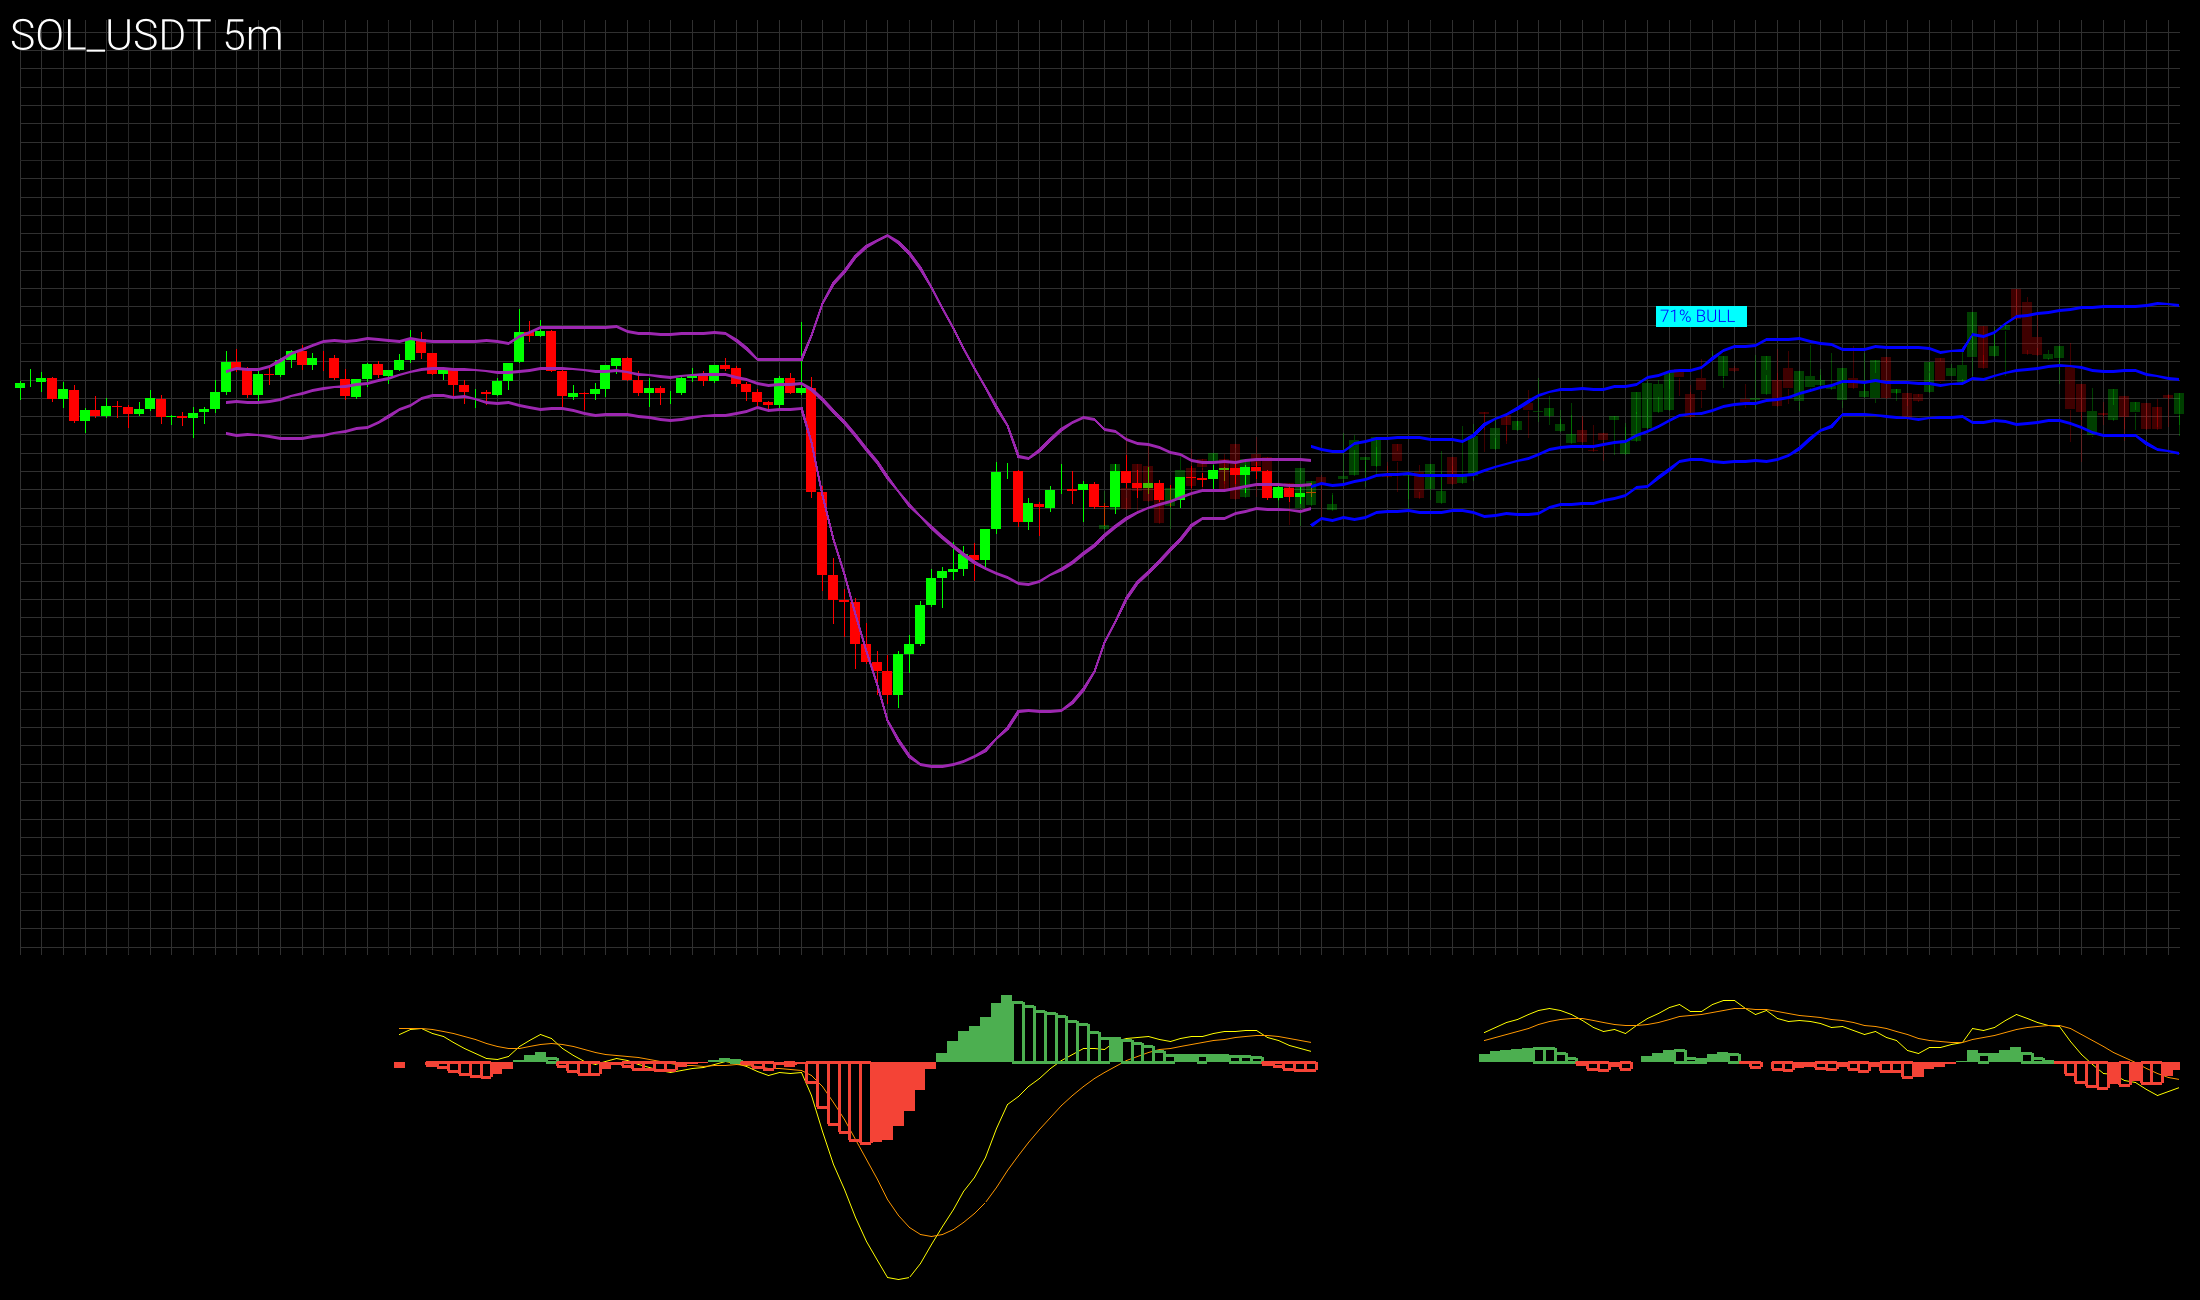
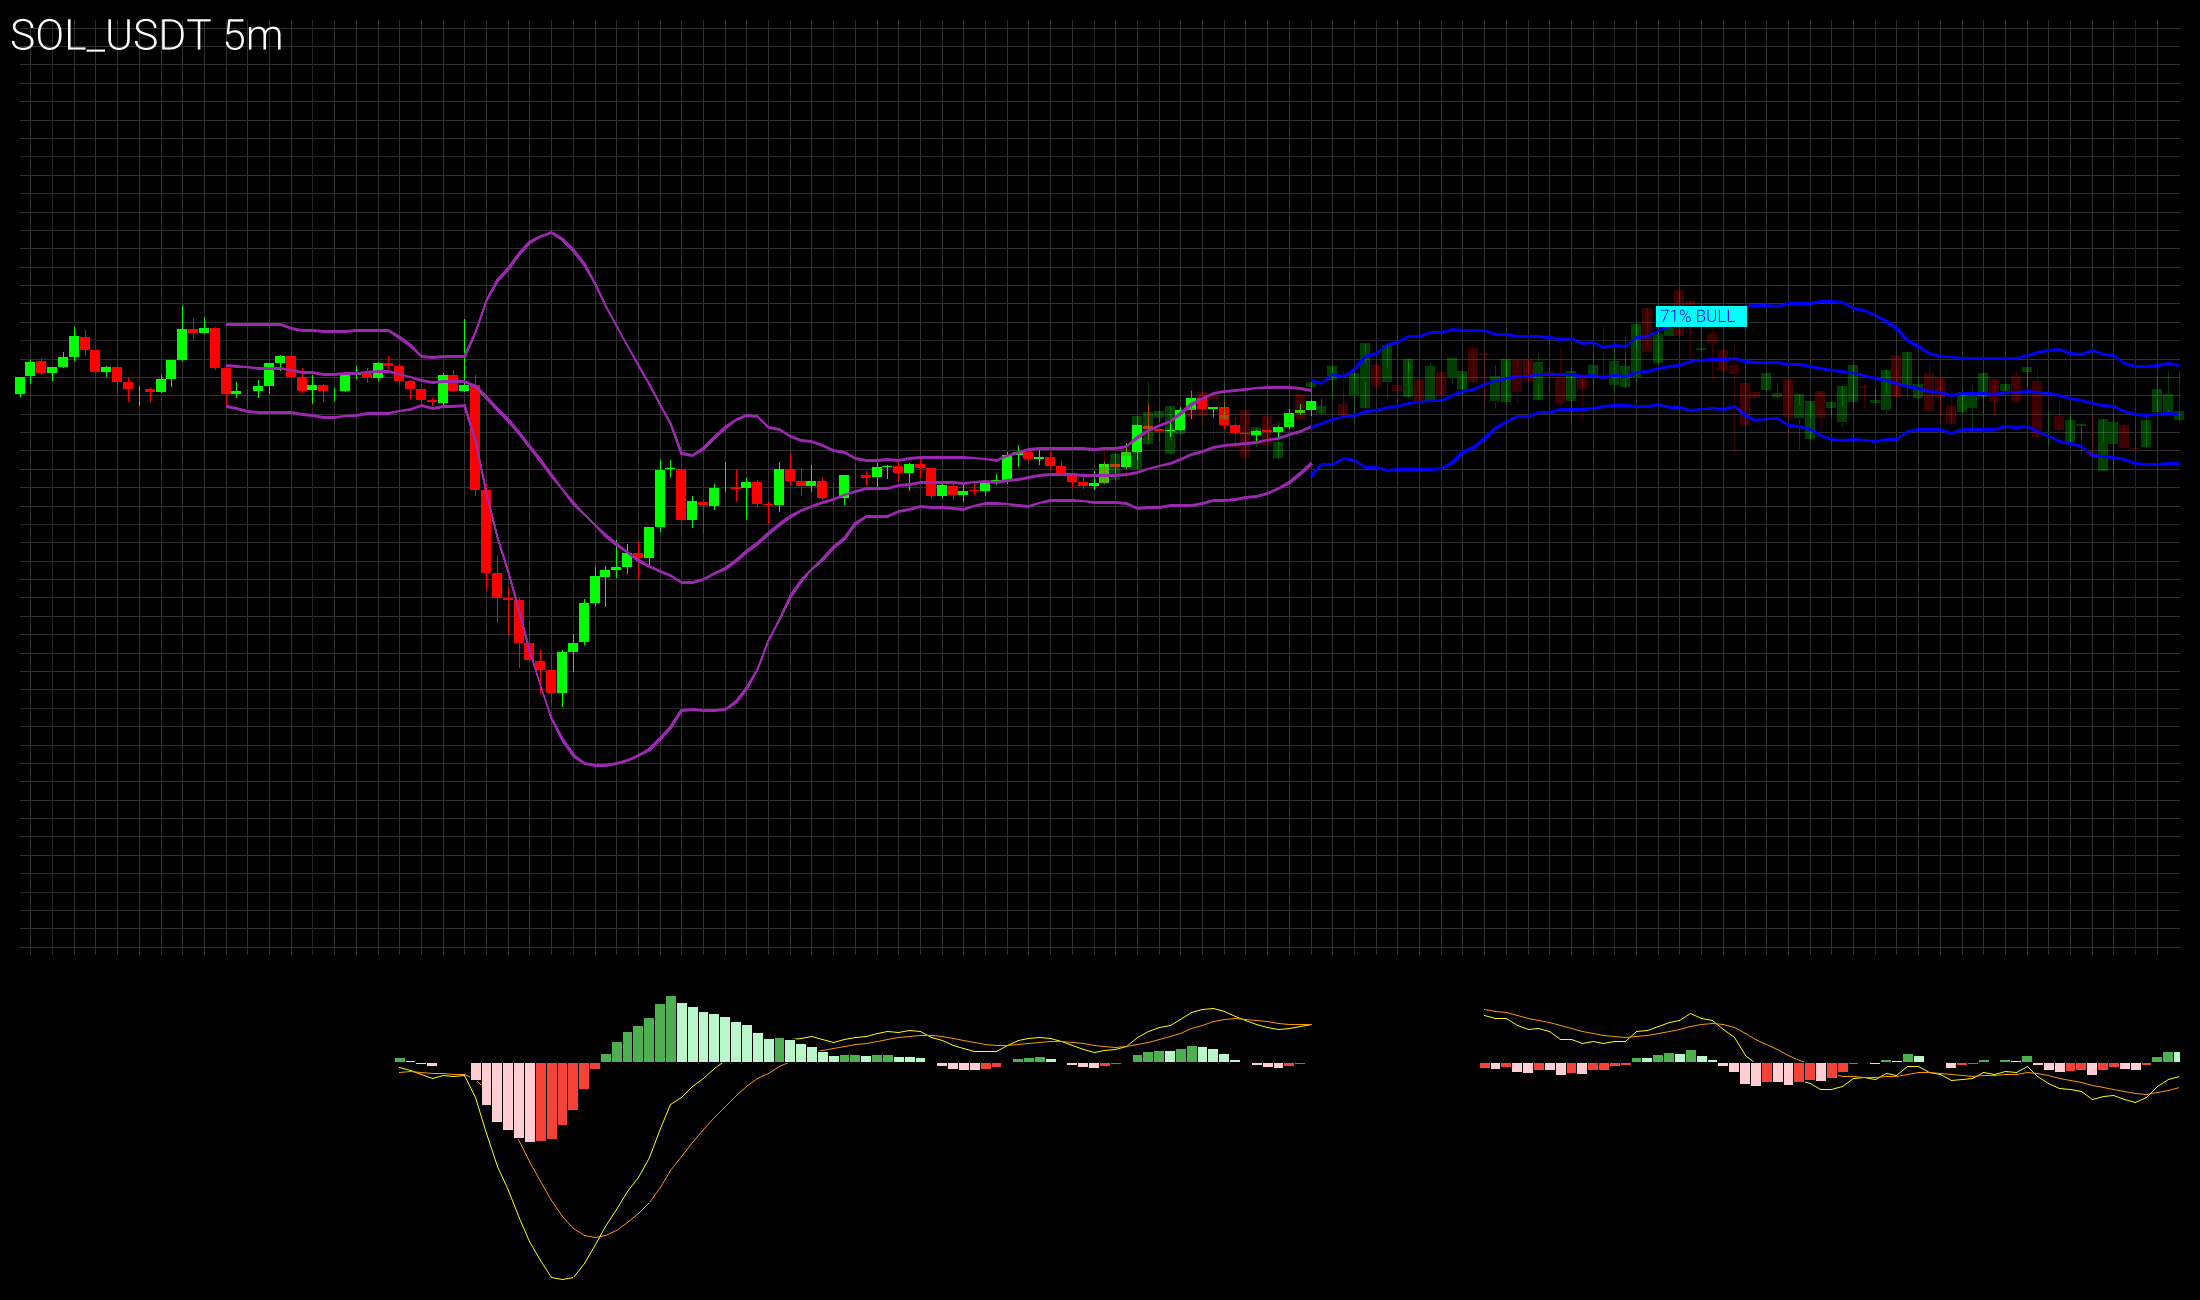
fix: use stroke

Changed region(s): [[0.0, 0.0308, 1.0, 0.6769], [0.1855, 0.7692, 0.5873, 0.8923], [0.68, 0.7692, 0.9891, 0.8615]]

diff --git a/feeder/src/charts/candle.rs b/feeder/src/charts/candle.rs
@@ -13,7 +13,7 @@ use plotters::prelude::full_palette::PURPLE;
 use plotters::prelude::*;
 
 use plotters::coord::Shift;
-use plotters::style::full_palette::{GREEN_500, ORANGE, RED_500};
+use plotters::style::full_palette::{GREEN_100, GREEN_500, ORANGE, RED_100, RED_500};
 
 use std::error::Error;
 
@@ -663,12 +663,6 @@ fn draw_macd(
             })
             .collect();
 
-        // // Draw the chart mesh (grid lines)
-        // chart
-        //     .configure_mesh()
-        //     .light_line_style(RGBColor(48, 48, 48))
-        //     .draw()?;
-
         // Draw MACD line series
         chart.draw_series(LineSeries::new(
             macd_lines.iter().map(|(t, m, _, _)| (*t, *m)),
@@ -687,26 +681,53 @@ fn draw_macd(
         let delta = chrono::Duration::seconds(150); // 5-minute timeframe / 2 = 150 seconds
 
         for (t, _, _, h) in macd_lines.iter() {
-            let color = if *h > 0.0 { GREEN_500 } else { RED_500 };
-            let style = if let Some(prev) = previous_h {
-                // If current value is less than previous, use hollow style
-                if *h < prev {
-                    ShapeStyle::from(&color).stroke_width(2) // Hollow (border only)
-                } else {
-                    ShapeStyle::from(&color).filled() // Filled
-                }
+            // Check if the current value is lower than the previous one
+            let is_lower = if let Some(prev) = previous_h {
+                *h < prev
             } else {
-                // First bar is always filled (no previous value to compare)
-                ShapeStyle::from(&color).filled()
+                false // First bar has no previous value, so it’s not lower
             };
 
-            // Draw the histogram bar
+            // Determine the fill color based on value and whether it’s lower
+            let fill_color = if *h > 0.0 {
+                if is_lower {
+                    GREEN_100 // Lighter green for decreasing positive values
+                } else {
+                    GREEN_500 // Standard green for non-decreasing positive values
+                }
+            } else if is_lower {
+                RED_100 // Lighter red for decreasing negative values
+            } else {
+                RED_500 // Standard red for non-decreasing negative values
+            };
+
+            // Define the fill style: filled with the chosen color, no stroke
+            let fill_style = ShapeStyle {
+                color: fill_color.into(),
+                filled: true,
+                stroke_width: 0,
+            };
+
+            // Define the stroke style: 1px black outline, no fill
+            let stroke_style = ShapeStyle {
+                color: BLACK.into(),
+                filled: false,
+                stroke_width: 1,
+            };
+
+            // Draw the filled rectangle
             plotting_area.draw(&Rectangle::new(
                 [(*t - delta, 0.0), (*t + delta, *h)],
-                style,
+                fill_style,
             ))?;
 
-            // Update previous value
+            // Draw the stroked rectangle for the black outline
+            plotting_area.draw(&Rectangle::new(
+                [(*t - delta, 0.0), (*t + delta, *h)],
+                stroke_style,
+            ))?;
+
+            // Update the previous value for the next iteration
             previous_h = Some(*h);
         }
     }
